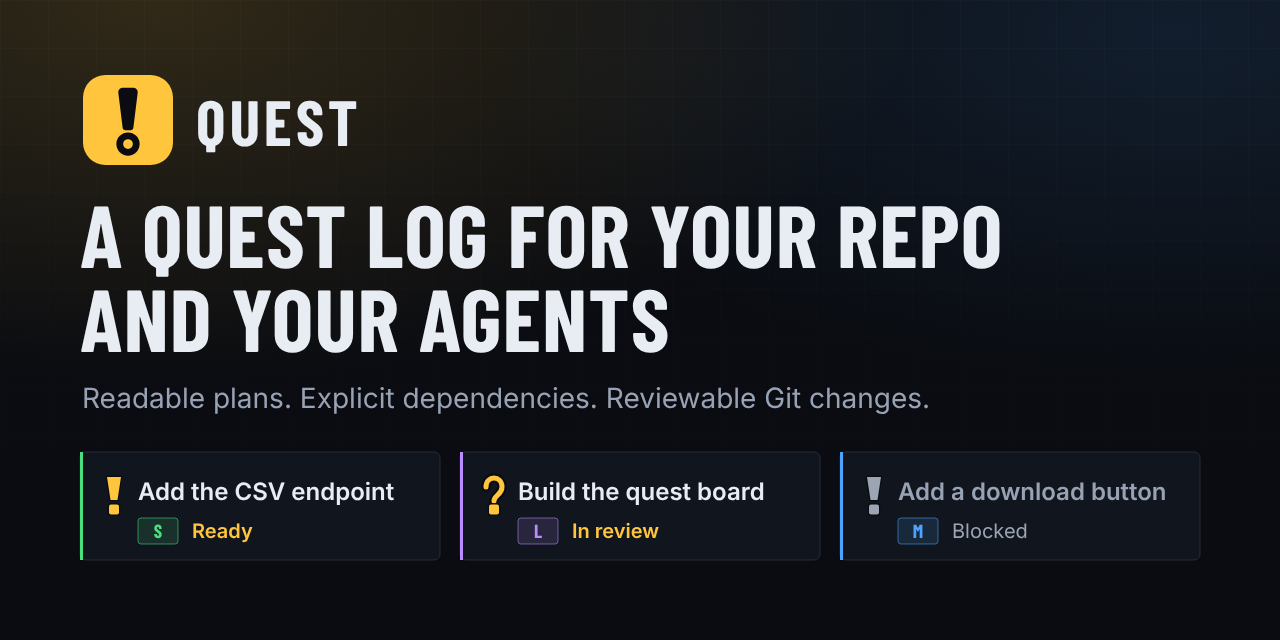
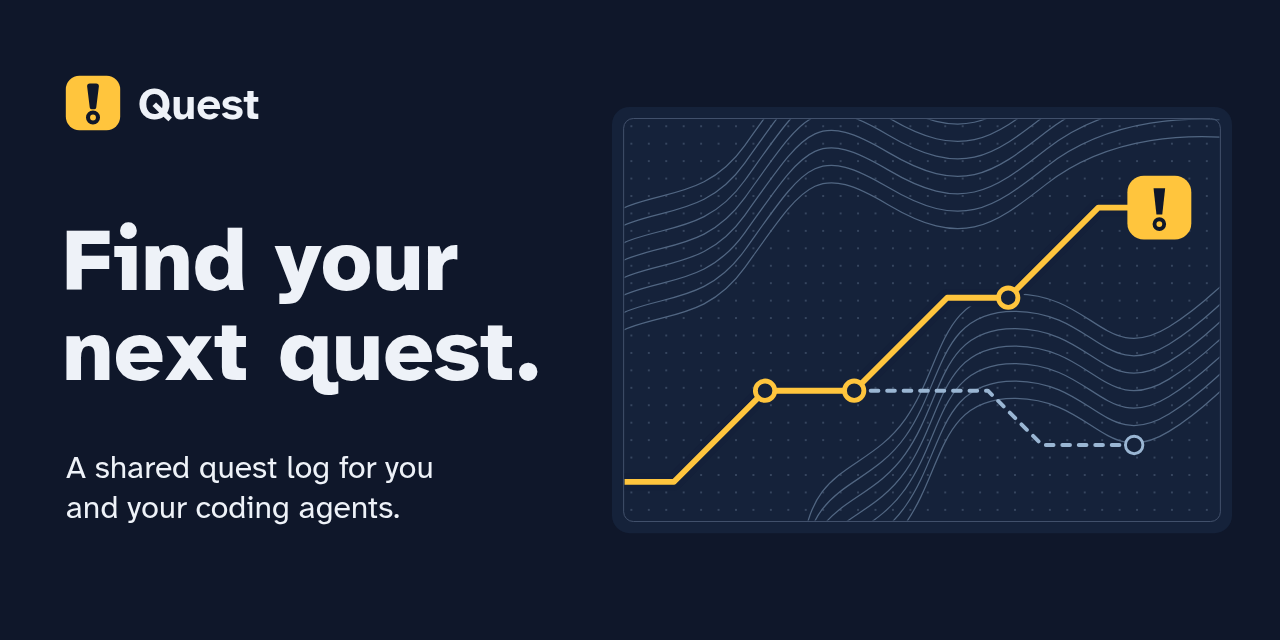
Give Quest a route-map identity (#17)
Codex's pass: leads with "Find your next quest.", adds an amber route-map illustration (`design/theme/route.svg`), redraws the social card (one card for the README and the site), and updates the copy and `design/theme.md`. Reviewed locally by Claude, which pointed the site's source link back at moq-dev/quest and removed an em dash.

Claude-Session: https://claude.ai/code/session_01DFbhGwdDPEPLz94bMg33oJ

diff --git a/cloudflare/src/home.tsx b/cloudflare/src/home.tsx
@@ -2,7 +2,7 @@ import type { Repositories } from "./github/repos.ts";
 import { Difficulty, Entry, Heading, Layout, type User } from "./layout.tsx";
 
 const description =
-	"A quest log for your repo and your agents, on your phone: what is ready to start, what is in review, and each pull request's checks.";
+	"Find the next ready quest, see what it unblocks, and follow its pull request from your phone. Quest keeps the plan in your Git repository.";
 
 /** The home page: sign-in, or the signed-in person's repositories. */
 export function Home(props: { user: User | null; install: string; repos: Repositories | null; origin: string }) {
@@ -19,11 +19,11 @@ function Pitch(props: { install: string }) {
 		<>
 			<section class="wrap hero">
 				<div class="hero-copy">
-					<h1>A quest log for your repo and your agents</h1>
-					<p class="lede">Readable plans. Explicit dependencies. Reviewable Git changes.</p>
+					<h1>Find your next quest.</h1>
+					<p class="lede">A shared quest log for you and your coding agents.</p>
 					<p>
-						This site shows your repository's quest tree on your phone: what's ready to start, what's in
-						review, and each pull request's checks.
+						Pick the change that unblocks the most work. Follow its pull request and check the build from
+						your phone. Your plan lives alongside the code in Git.
 					</p>
 					<p class="actions">
 						<a class="button primary" href="/sign-in?next=%2F">
@@ -34,7 +34,16 @@ function Pitch(props: { install: string }) {
 						</a>
 					</p>
 				</div>
-				{/* The social image's sample quests, drawn as a chain: one unblocks the next. */}
+				<img class="route-art" src="/theme/route.svg" width="640" height="440" alt="" />
+			</section>
+			<section class="wrap board-preview">
+				<div>
+					<h2>Read the work in order</h2>
+					<p>
+						The download button needs a CSV endpoint. Quest puts the endpoint first and shows the button it
+						unlocks. Work already in review has its own place on the board.
+					</p>
+				</div>
 				<figure class="sample">
 					<ol class="chain" aria-label="Example quests">
 						<Entry title="Add the CSV endpoint" status="ready" size="S">
@@ -55,11 +64,11 @@ function Pitch(props: { install: string }) {
 							<span>#41, checks passed</span>
 						</Entry>
 					</ul>
-					<figcaption class="muted">Example quests, as a board lists them.</figcaption>
+					<figcaption class="muted">Example board for a CSV export feature.</figcaption>
 				</figure>
 			</section>
 			<section class="wrap pitch">
-				<h2>What you see</h2>
+				<h2>From plan to pull request</h2>
 				<dl class="features">
 					<div>
 						<dt>What to start next</dt>
@@ -76,7 +85,7 @@ function Pitch(props: { install: string }) {
 						</dd>
 					</div>
 					<div>
-						<dt>How quests merged</dt>
+						<dt>Look back at merged work</dt>
 						<dd>
 							For the last 30 days: size, the model that wrote it, review score and rounds, and hours from
 							claim to merge.
@@ -85,7 +94,7 @@ function Pitch(props: { install: string }) {
 				</dl>
 			</section>
 			<section class="wrap pitch">
-				<h2>Set it up</h2>
+				<h2>Connect your first repository</h2>
 				<ol class="steps">
 					<li>
 						<span>

diff --git a/cloudflare/src/site.css b/cloudflare/src/site.css
@@ -506,7 +506,7 @@ pre {
 	font-variant-numeric: tabular-nums;
 }
 
-/* The log: entries as og.svg draws them. */
+/* Shared entries for the example and repository boards. */
 
 .log {
 	list-style: none;
@@ -692,6 +692,40 @@ a.entry-title::after {
 	max-width: 34rem;
 }
 
+.route-art {
+	display: block;
+	width: 100%;
+	height: auto;
+}
+
+.board-preview {
+	display: grid;
+	gap: 1.5rem 3rem;
+	align-items: center;
+	border-top: 1px solid var(--ql-rule-strong);
+	margin-top: 2rem;
+	padding-top: 2rem;
+}
+
+.board-preview h2 {
+	margin: 0;
+}
+
+.board-preview p {
+	max-width: 36ch;
+}
+
+.features > div {
+	border-top: 2px solid var(--ql-rule-strong);
+	padding-top: 1rem;
+}
+
+@media (min-width: 52rem) {
+	.board-preview {
+		grid-template-columns: 1fr 1.25fr;
+	}
+}
+
 .sample {
 	margin: 0;
 }
@@ -827,6 +861,13 @@ a.entry-title::after {
 	grid-template-columns: minmax(0, 1fr);
 	gap: 2.25rem;
 	padding-block: 1.5rem 1rem;
+}
+
+.page-head,
+.board-head,
+.quest-title {
+	border-inline-start: 3px solid var(--ql-marker);
+	padding-inline-start: clamp(0.85rem, 2vw, 1.4rem);
 }
 
 /* A repository heading: the owner small above the name. */

diff --git a/cloudflare/src/layout.tsx b/cloudflare/src/layout.tsx
@@ -28,7 +28,7 @@ export type Page = {
 
 /** The page shell. */
 export function Layout(props: Page & { children: Child }) {
-	const title = props.title ? `${props.title} · Quest` : "Quest: a quest log for your repo and your agents";
+	const title = props.title ? `${props.title} · Quest` : "Quest · Find your next quest";
 	return (
 		<html lang="en">
 			<head>
@@ -62,7 +62,7 @@ export function Layout(props: Page & { children: Child }) {
 						<meta property="og:image:height" content="640" />
 						<meta
 							property="og:image:alt"
-							content="Quest's mark beside two quests, the first unblocking the second: a quest log for your repo and your agents."
+							content="Find your next quest. An amber route branches across a slate contour map."
 						/>
 						<meta name="twitter:card" content="summary_large_image" />
 					</>

diff --git a/cloudflare/scripts/build.ts b/cloudflare/scripts/build.ts
@@ -41,7 +41,7 @@ for (const [pkg, files] of Object.entries(FONTS)) {
 	cpSync(join(dir, "LICENSE"), join(fonts, `${pkg.split("/")[1]}-OFL.txt`));
 }
 // The site's social image (brand/README.md).
-cpSync(join(worker, "brand", "og.png"), join(out, "og.png"));
+cpSync(join(root, "design", "theme", "og.png"), join(out, "og.png"));
 for (const file of ["site.css", "app.js", "manifest.webmanifest"]) cpSync(join(worker, "src", file), join(out, file));
 const sw = readFileSync(join(worker, "src", "sw.js"), "utf8");
 if (!sw.includes("__VERSION__")) throw new Error("src/sw.js lost its __VERSION__ placeholder");

diff --git a/cloudflare/src/github/app.ts b/cloudflare/src/github/app.ts
@@ -40,7 +40,7 @@ export function manifest(origin: string, redirect: string, name: string): Manife
 		name,
 		url: site.origin,
 		description:
-			"A quest log for your repo and your agents, on your phone: what is ready to start, what is in review, and each pull request's checks.",
+			"Find the next ready quest, see what it unblocks, and follow its pull request from your phone. Quest keeps the plan in your Git repository.",
 		// Installable on any account, so the maintainer's organization can install a contributor's App.
 		public: true,
 		redirect_url: redirect,

diff --git a/cloudflare/src/sw.js b/cloudflare/src/sw.js
@@ -15,6 +15,7 @@ const ASSETS = [
 	"/app.js",
 	"/theme/theme.css",
 	"/theme/logo.svg",
+	"/theme/route.svg",
 	"/theme/icon-192.png",
 	"/theme/icon-512.png",
 	"/theme/icon-180.png",

diff --git a/design/theme.md b/design/theme.md
@@ -23,9 +23,9 @@ binary.
 
 ## Voice
 
-Hook, then substance. Lead with "a quest log for your repo and your agents",
-then deliver the pitch: readable plans, explicit dependencies, and reviewable
-Git changes.
+Lead with “Find your next quest.” Describe Quest as a shared quest log for you
+and your coding agents. Show a concrete dependency and the pull request that
+delivers the change.
 
 Plain copy with a light game flavour. "Quest" and "quest log" are the product,
 so they stay, along with the markers and size colours. Everything else reads
@@ -101,17 +101,19 @@ and `?`, the rarity ladder with its labels, and the amber square.
 
 ## Social image
 
-[`theme/og.svg`](theme/og.svg) is the source and
-[`theme/og.png`](theme/og.png) the 1280 by 640 export. The SVG imports
-Barlow Condensed and Inter from Google Fonts, so export it with network
-access. Headless Chrome can silently fall back to system fonts on a cold font
-cache, so re-run the export if the fonts look wrong:
+The landing page uses [an original route map](theme/route.svg). The amber line
+connects commit nodes and branches across slate contours. The board beneath
+it explains the real dependency using text and labeled statuses.
+
+The [social card](theme/og.svg) pairs the map with the mark and headline.
+Both the README and the site use its 1280 × 640 PNG. From the repository
+root, install the locked dependencies for Atkinson and render locally:
 
 ```sh
-google-chrome --headless=new --hide-scrollbars --virtual-time-budget=10000 \
-  --window-size=1280,640 --screenshot=design/theme/og.png \
-  "file://$PWD/design/theme/og.svg"
+google-chrome --headless=new --allow-file-access-from-files --hide-scrollbars \
+  --virtual-time-budget=5000 --window-size=1280,640 \
+  --screenshot="$PWD/design/theme/og.png" "file://$PWD/design/theme/og.svg"
 ```
 
-A maintainer uploads `og.png` by hand under the repository's Settings, General,
+The repository owner can also select this PNG under Settings → General →
 Social preview.

diff --git a/cloudflare/brand/README.md b/cloudflare/brand/README.md
@@ -1,20 +1,5 @@
-# Brand assets for the quest log site
+# Quest social preview
 
-The site's own social image. Quest's mark, app icons, and the repository's
-social preview live in [`design/theme/`](../../design/theme); `design/theme.md`
-is the source of truth for both.
-
-- `og.svg` is the source and `og.png` the 1280 by 640 export the site serves at
-  `/og.png` (`scripts/build.ts` copies it). It draws the mark, the hook and
-  pitch from `design/theme.md`'s Voice, and the board's sample quests: a ready
-  quest joined to the one it unblocks, and one in review.
-- It reads Atkinson Hyperlegible Next from `node_modules`, so run
-  `bun install` first, then export from this directory:
-
-```sh
-google-chrome --headless=new --hide-scrollbars --virtual-time-budget=5000 \
-  --window-size=1280,640 --screenshot="$PWD/og.png" "file://$PWD/og.svg"
-```
-
-Check the export: on a cold font cache headless Chrome can fall back to a
-system font. Re-run it if the headline isn't in Atkinson.
+The site's `/og.png` and the repository banner use the same 1280 × 640
+export. The source, route illustration, and export instructions live in
+[the Quest design guide](../../design/theme.md#social-image).

diff --git a/README.md b/README.md
@@ -1,8 +1,8 @@
-<p align="center"><img src="design/theme/logo.svg" alt="" width="96" height="96"></p>
+<p align="center"><img src="design/theme/og.png" alt="Quest: find your next quest. A shared quest log for you and your coding agents." width="960"></p>
 
 # Quest
 
-**A quest log for your repo and your agents.**
+**Find the change that unblocks the most work.**
 
 Readable plans, explicit dependencies, and reviewable Git changes. Quest keeps
 your plans in your repository, so you and your agents read, claim, and finish
